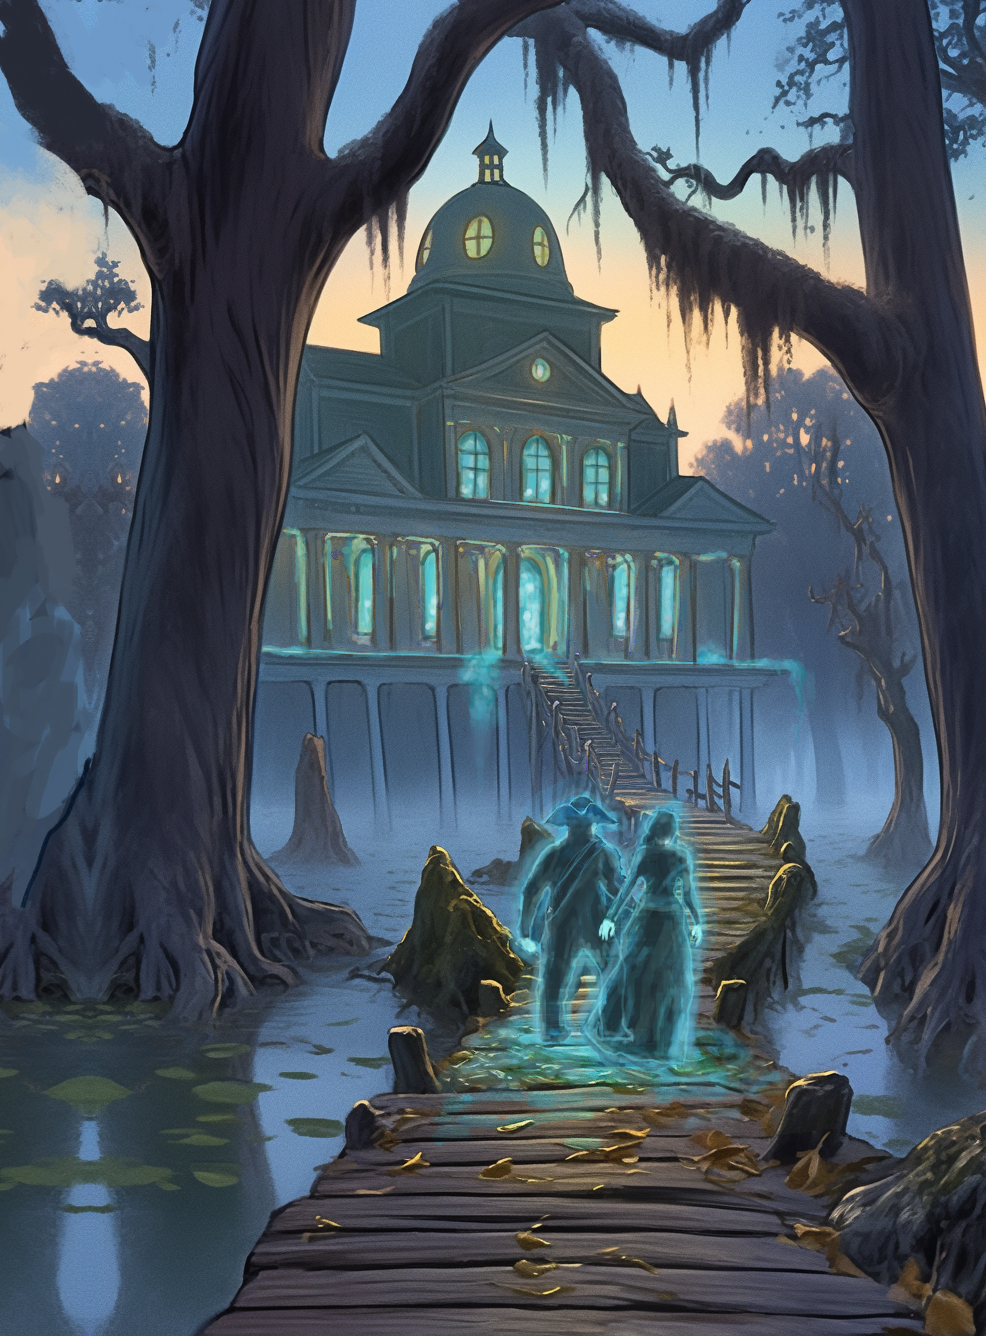
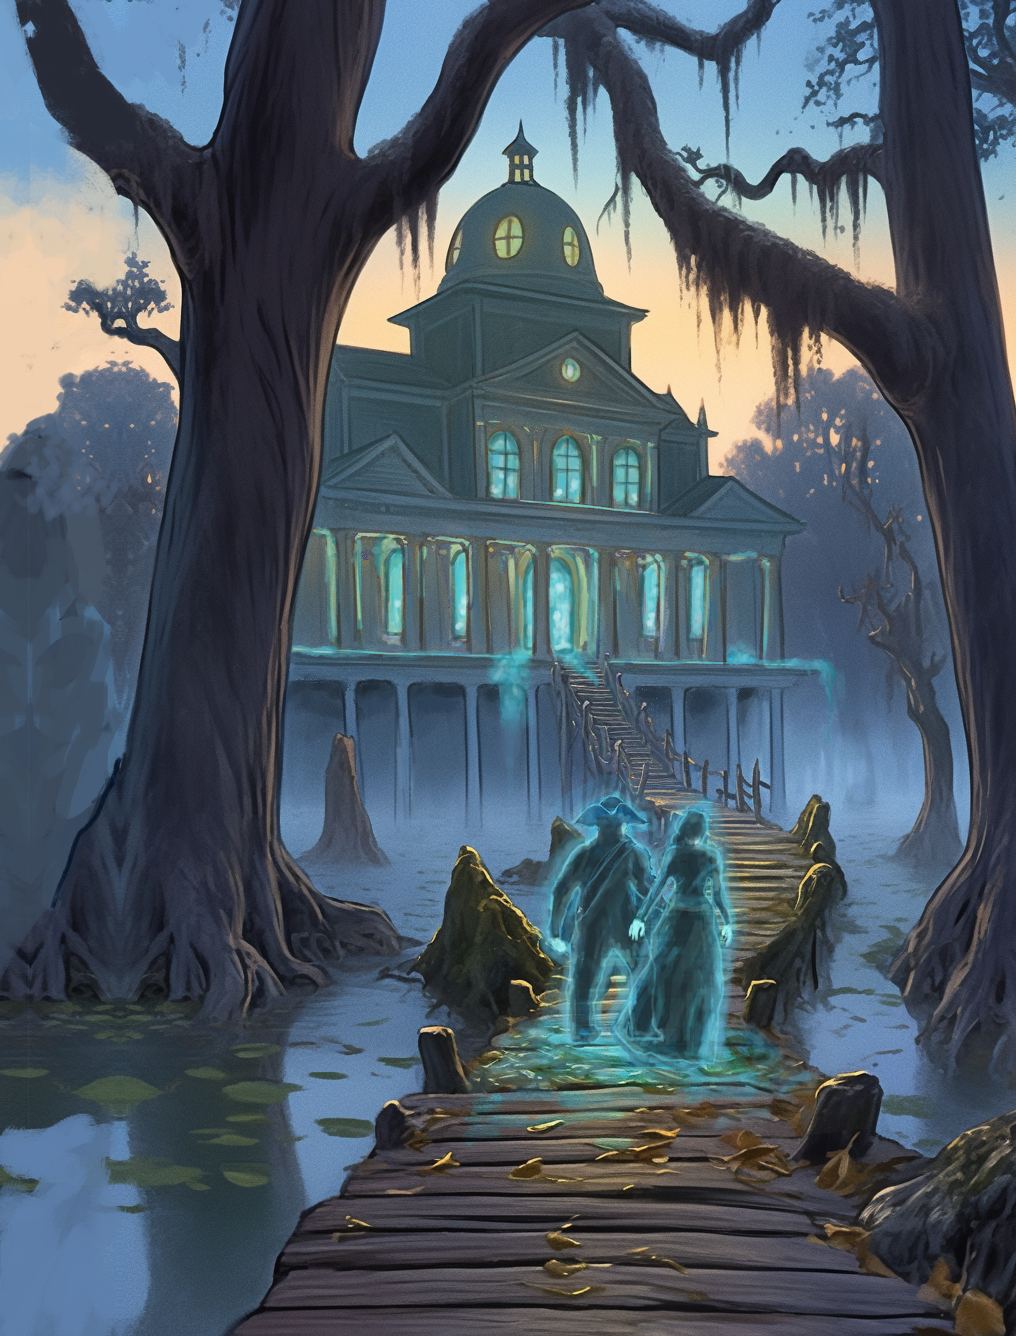
New illustration for the explosion

diff --git a/deckhand2/cards.en.js b/deckhand2/cards.en.js
@@ -1111,10 +1111,10 @@ var cards = [
     },
 
     {
-        "title": "?",
+        "title": "Powder Keg Accident",
         "discard": ['e'],
         "cost": ['p', 'p', 'r', 'r', 'r', 'cs', 'cs'],
-        "img": "cards/fire.png",
+        "img": "cards/powder.png",
         "production": [],
         "banners": ['parrot-banner', 'rum-banner'],
         "extra": ['vp-7', 'bolt', 'bolt'],
